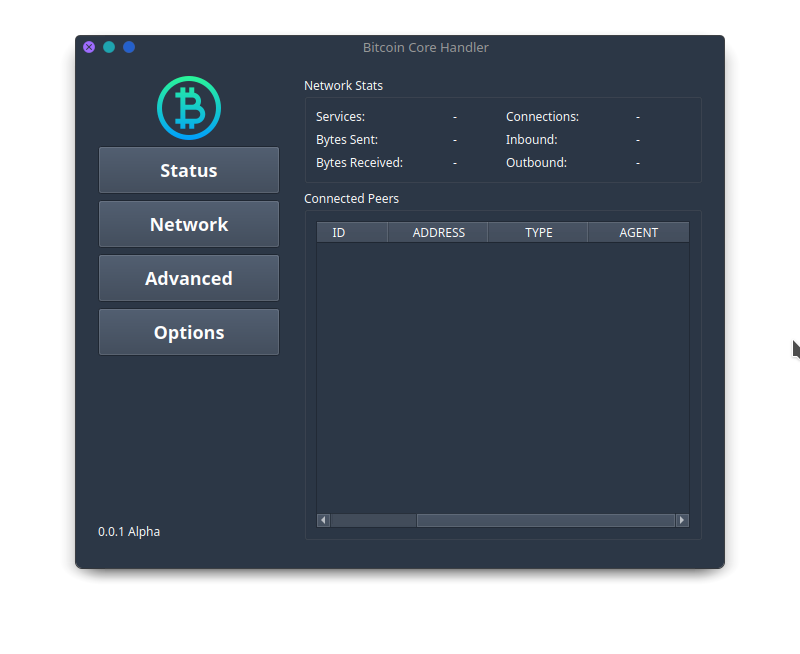
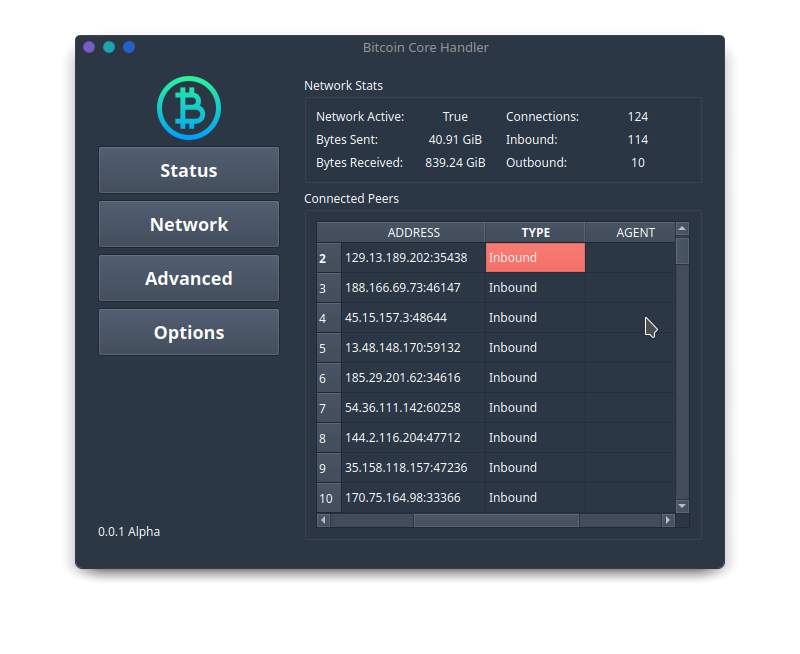
gui

diff --git a/ui/main.py b/ui/main.py
@@ -4,10 +4,10 @@
 import lib.client
 import ui.utils as utils
 import sys, time, random, json, threading
-from PySide6.QtCore import Qt 
+from PySide6.QtCore import Qt, QSize 
 from PySide6.QtGui import QPixmap, QIcon
 from PySide6.QtWidgets import ( QApplication, QMainWindow, QMenuBar, QMenu, QStatusBar, QPushButton,
-                            QLabel, QLineEdit, QGridLayout, QWidget, QFormLayout, QVBoxLayout,
+                            QLabel, QLineEdit, QGridLayout, QWidget, QFormLayout, QVBoxLayout, QHeaderView,
                             QHBoxLayout, QGroupBox, QTextEdit, QMessageBox, QTableWidget, QTableWidgetItem )
 
 #import lib.network
@@ -66,10 +66,11 @@ class MainWindow(QMainWindow):
             if self.CLIENT.network.isConnected:
                 self.refreshStatusInfo()
                 #self.refreshNetworkInfo()
+                time.sleep(1)
                 self.refreshPeersInfo()
             else:
                 self.setStatusDefault()
-            time.sleep(5)
+            time.sleep(3)
         
     def refreshConnectionStatus(self):
         if self.CLIENT.network.isConnected:
@@ -92,7 +93,7 @@ class MainWindow(QMainWindow):
 
             for key, value in self.statsResult.items():
                 if key == 'totalbytesrecv': self.statsResult[key].setText(utils.convertBytesSizes(self.CLIENT.statusInfo[key]))
-                elif key == 'totalbytesrecv': self.statsResult[key].setText(utils.convertBytesSizes(self.CLIENT.statusInfo[key]))
+                elif key == 'totalbytessent': self.statsResult[key].setText(utils.convertBytesSizes(self.CLIENT.statusInfo[key]))
                 else: self.statsResult[key].setText(str(self.CLIENT.statusInfo[key]))
 
 
@@ -105,13 +106,14 @@ class MainWindow(QMainWindow):
     def refreshPeersInfo(self):
         self.CLIENT.getPeersInfo()
         if self.CLIENT.peersInfo:
+            self.peersTable.setRowCount(len(self.CLIENT.peersInfo))
             rowCounter = 0
-            for peer in self.peersInfo:
-                typeC = 'Inbound' if peer['inbound'] else: 'Outbound'
-                self.peersTable.setItem(rowCounter, 0, QTableWidgetItem(peer['id']))
-                self.peersTable.setItem(rowCounter, 1, QTableWidgetItem(peer['addr']))
+            for peer in self.CLIENT.peersInfo:
+                typeC = 'Inbound' if peer['inbound'] else 'Outbound'
+                self.peersTable.setItem(rowCounter, 0, QTableWidgetItem(str(peer['id'])))
+                self.peersTable.setItem(rowCounter, 1, QTableWidgetItem(str(peer['addr'])))
                 self.peersTable.setItem(rowCounter, 2, QTableWidgetItem(typeC))
-                self.peersTable.setItem(rowCounter, 3, QTableWidgetItem(peer['subversion']))
+                #self.peersTable.setItem(rowCounter, 3, QTableWidgetItem(peer['subversion']))
                 rowCounter += 1
                 
         
@@ -248,8 +250,12 @@ class MainWindow(QMainWindow):
         groupTable = QGroupBox("Connected Peers")
         groupTableLayout = QVBoxLayout()
         self.peersTable = QTableWidget()
-        self.peersTable.setColumnCount(4)
-        self.peersTable.setHorizontalHeaderLabels(['ID', 'ADDRESS', 'TYPE', 'AGENT'])
+        self.peersTable.setColumnCount(3)
+        self.peersTable.setHorizontalHeaderLabels(['ID', 'ADDRESS', 'TYPE'])
+        peersHeader = self.peersTable.horizontalHeader()
+        peersHeader.setSectionResizeMode(0, QHeaderView.ResizeMode.ResizeToContents)
+        peersHeader.setSectionResizeMode(1, QHeaderView.ResizeMode.Stretch)
+        peersHeader.setSectionResizeMode(2, QHeaderView.ResizeMode.ResizeToContents)
         groupTableLayout.addWidget(self.peersTable)
         groupTable.setLayout(groupTableLayout)
 
